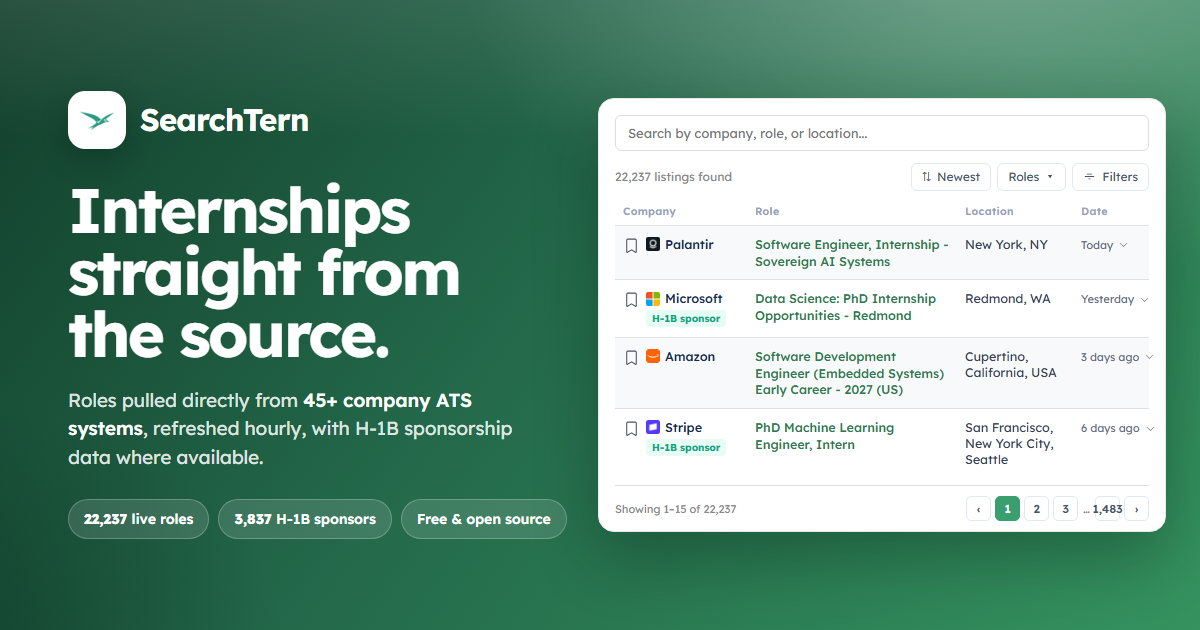
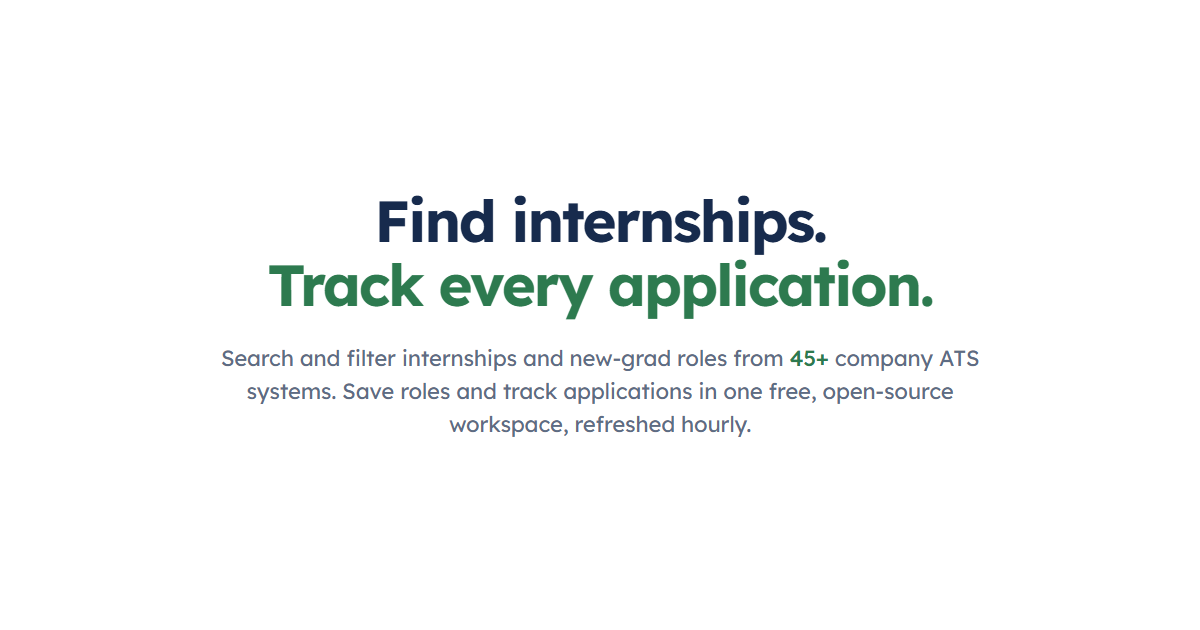
feat(seo): render the social preview as centred hero type on white
The preview picture is now a plain white page with the landing hero's copy centred: "Find internships." in #172b4d over "Track every application." in #2d7a4f, followed by the subtitle with 45+ in the accent. No board panel, no button, no logo.

The previous card design stays in frontend/og/og-image.html; this variant lives in frontend/og/og-text.html and renders to /og-image.png at the 1200x630 that index.html and utils/seo.ts declare.

diff --git a/frontend/og/og-text.html b/frontend/og/og-text.html
@@ -1,0 +1,93 @@
+<!doctype html>
+<html lang="en">
+
+<head>
+  <meta charset="utf-8" />
+  <title>SearchTern social preview — plain (1200x630)</title>
+  <!--
+    Plain variant of frontend/og/og-image.html: the same hero copy, centred on a
+    white page, no board panel and no button. Renders to
+    frontend/public/og-image.png at the size index.html and utils/seo.ts declare:
+
+      chrome --headless=new --hide-scrollbars --window-size=1200,630 \
+             --screenshot=frontend/public/og-image.png \
+             file:///<abs path>/frontend/og/og-text.html
+
+    Type and colour are the landing hero's: --text-dark #172b4d on
+    "Find internships.", --accent-color #2d7a4f on "Track every application.",
+    --text-muted #5e6c84 for the paragraph, Lexend at the site's weights.
+  -->
+  <style>
+    @import url("https://fonts.googleapis.com/css2?family=Lexend:wght@400;500;600;700&display=swap");
+
+    * {
+      margin: 0;
+      padding: 0;
+      box-sizing: border-box;
+    }
+
+    html,
+    body {
+      width: 1200px;
+      height: 630px;
+      overflow: hidden;
+      background: #ffffff;
+      -webkit-print-color-adjust: exact;
+      print-color-adjust: exact;
+    }
+
+    .centered-text-card {
+      display: flex;
+      flex-direction: column;
+      align-items: center;
+      justify-content: center;
+      width: 1200px;
+      height: 630px;
+      padding: 0 96px;
+      text-align: center;
+      font-family: Lexend, "Segoe UI", system-ui, -apple-system, sans-serif;
+      text-rendering: geometricPrecision;
+    }
+
+    h1 {
+      color: #172b4d;
+      font-size: 58px;
+      font-weight: 700;
+      line-height: 1.1;
+      letter-spacing: -0.038em;
+    }
+
+    h1 .accent {
+      display: block;
+      color: #2d7a4f;
+    }
+
+    p {
+      margin-top: 26px;
+      max-width: 820px;
+      color: #5e6c84;
+      font-size: 22px;
+      font-weight: 400;
+      line-height: 1.5;
+      letter-spacing: -0.006em;
+    }
+
+    p .accent {
+      color: #2d7a4f;
+      font-weight: 500;
+    }
+  </style>
+</head>
+
+<body>
+  <div class="centered-text-card">
+    <h1>Find internships. <span class="accent">Track every application.</span></h1>
+    <p>
+      Search and filter internships and new-grad roles from
+      <span class="accent">45+</span> company ATS systems. Save roles and track
+      applications in one free, open-source workspace, refreshed hourly.
+    </p>
+  </div>
+</body>
+
+</html>
